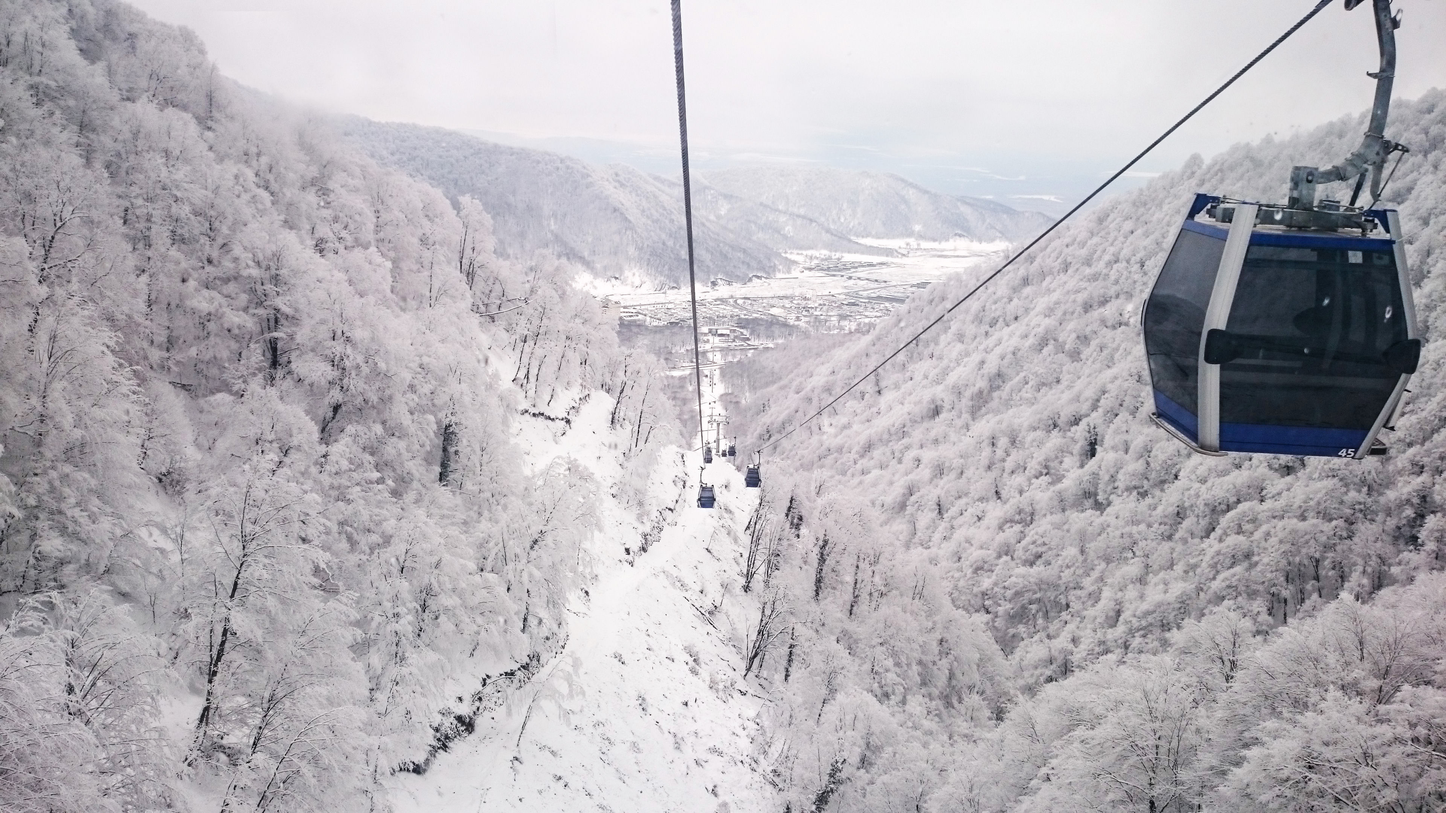
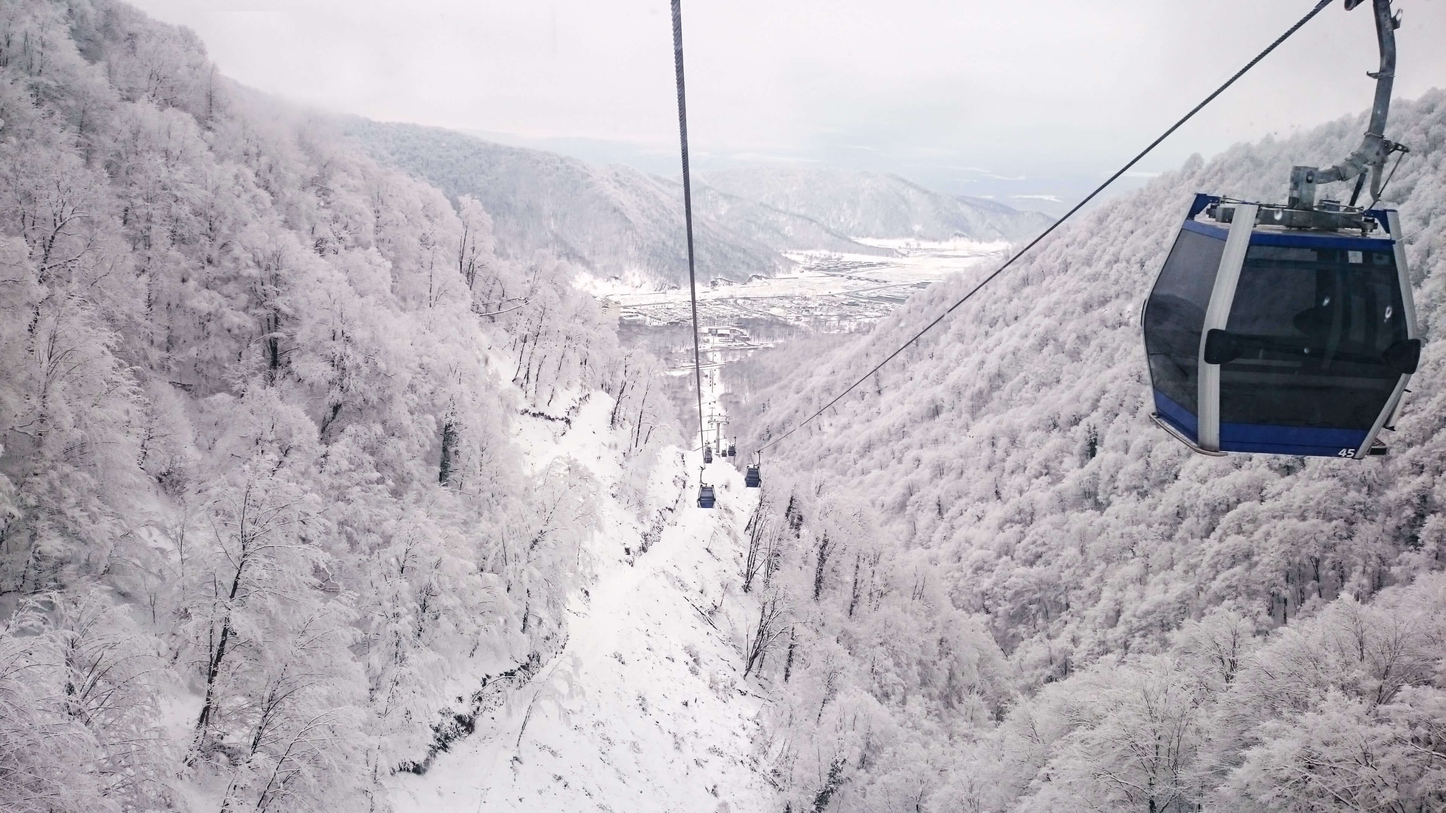
fix(tours): repair blank tour cards with seed photo routing and backfill script

diff --git a/frontend/app/components/TourCard.tsx b/frontend/app/components/TourCard.tsx
@@ -3,9 +3,8 @@
 import { Leaf, Landmark, Music, Utensils, MapPin, Users, Zap, Check, Star, Clock, ChevronRight, Heart } from 'lucide-react';
 import { useLanguage } from '../context/LanguageContext';
 import type { TranslationKey } from '../lib/translations';
-import { formatAzn } from '@/app/lib/format';
+import { photoSrc } from '../lib/photo';
 
-const API_URL = process.env.NEXT_PUBLIC_API_URL || 'http://localhost:4000';
 
 // Categories no longer carry their own saturated gradient - a card without
 // a real photo now falls back to one shared, muted brand treatment (see
@@ -128,7 +127,7 @@ export default function TourCard({
       <div className="relative aspect-[4/3] overflow-hidden bg-muted">
         {tour.photo_url ? (
           <img
-            src={`${API_URL}${tour.photo_url}`}
+            src={photoSrc(tour.photo_url) ?? ''}
             alt={tour.title}
             className="absolute inset-0 w-full h-full object-cover transition-transform duration-300 group-hover:scale-105"
           />
@@ -217,15 +216,15 @@ export default function TourCard({
             <div className="text-right">
               {hasDeal ? (
                 <>
-                  <p className="text-xs text-muted-foreground line-through">{formatAzn(tour.price)}</p>
+                  <p className="text-[10px] text-muted-foreground line-through">AZN {tour.price}</p>
                   <p className="text-sm font-bold text-primary">
-                    {formatAzn(tour.discounted_price)}
+                    AZN {tour.discounted_price}
                     <span className="text-[10px] font-normal text-muted-foreground">{t('tourCard.perPerson')}</span>
                   </p>
                 </>
               ) : (
                 <p className="text-sm font-bold text-primary">
-                  {formatAzn(tour.price)}
+                  AZN {tour.price}
                   <span className="text-[10px] font-normal text-muted-foreground">{t('tourCard.perPerson')}</span>
                 </p>
               )}

diff --git a/frontend/app/(main)/tours/[id]/page.tsx b/frontend/app/(main)/tours/[id]/page.tsx
@@ -33,6 +33,7 @@ import WeatherForecast from '@/app/components/WeatherForecast';
 import { formatAzn, formatDate, isPastDate } from '@/app/lib/format';
 import { instagramUrl as buildInstagramUrl } from '@/app/lib/instagram';
 import Link from 'next/link';
+import { photoSrc } from '@/app/lib/photo';
 
 const API_URL = process.env.NEXT_PUBLIC_API_URL || 'http://localhost:4000';
 
@@ -354,7 +355,7 @@ export default function TourDetail() {
           {/* Hero */}
           <div className="relative h-48 sm:h-64 rounded-2xl flex items-center justify-center mb-5 overflow-hidden bg-muted">
             {tour.photo_url ? (
-              <img src={`${API_URL}${tour.photo_url}`} alt={tour.title} className="absolute inset-0 w-full h-full object-cover" />
+              <img src={photoSrc(tour.photo_url) ?? ''} alt={tour.title} className="absolute inset-0 w-full h-full object-cover" />
             ) : (
               <CategoryMotif category={tour.category} />
             )}

diff --git a/frontend/app/components/NewTourContent.tsx b/frontend/app/components/NewTourContent.tsx
@@ -9,6 +9,7 @@ import { VEHICLE_FEATURES } from '../lib/vehicleFeatures';
 import { AZERBAIJAN_CITIES } from '../lib/azerbaijanCities';
 import { useLanguage } from '../context/LanguageContext';
 import type { TranslationKey } from '../lib/translations';
+import { photoSrc } from '../lib/photo';
 
 const API_URL = process.env.NEXT_PUBLIC_API_URL || 'http://localhost:4000';
 const CATEGORIES = ['nature', 'history', 'entertainment', 'food'];
@@ -82,7 +83,7 @@ export default function NewTourContent({ tour, onSuccess }: { tour?: ExistingTou
 
   const [photoFile, setPhotoFile] = useState<File | null>(null);
   const [photoPreviewUrl, setPhotoPreviewUrl] = useState<string | null>(
-    tour?.photo_url ? `${API_URL}${tour.photo_url}` : null
+    photoSrc(tour?.photo_url)
   );
   const fileInputRef = useRef<HTMLInputElement>(null);
 

diff --git a/frontend/app/lib/photo.ts b/frontend/app/lib/photo.ts
@@ -1,0 +1,17 @@
+// Where a stored photo path actually lives. Three kinds exist:
+//
+//   /uploads/...   photos operators uploaded  -> served by the BACKEND (Railway)
+//   /seed/...      demo-tour cover images     -> static files in THIS app (public/seed)
+//   https://...    any full web address       -> used as-is
+//
+// Every place that shows a tour/operator photo goes through this, so adding
+// another kind later is a one-line change here.
+
+const API_URL = process.env.NEXT_PUBLIC_API_URL || 'http://localhost:4000';
+
+export function photoSrc(url: string | null | undefined): string | null {
+  if (!url) return null;
+  if (/^https?:\/\//i.test(url)) return url;
+  if (url.startsWith('/uploads/')) return `${API_URL}${url}`;
+  return url;
+}
